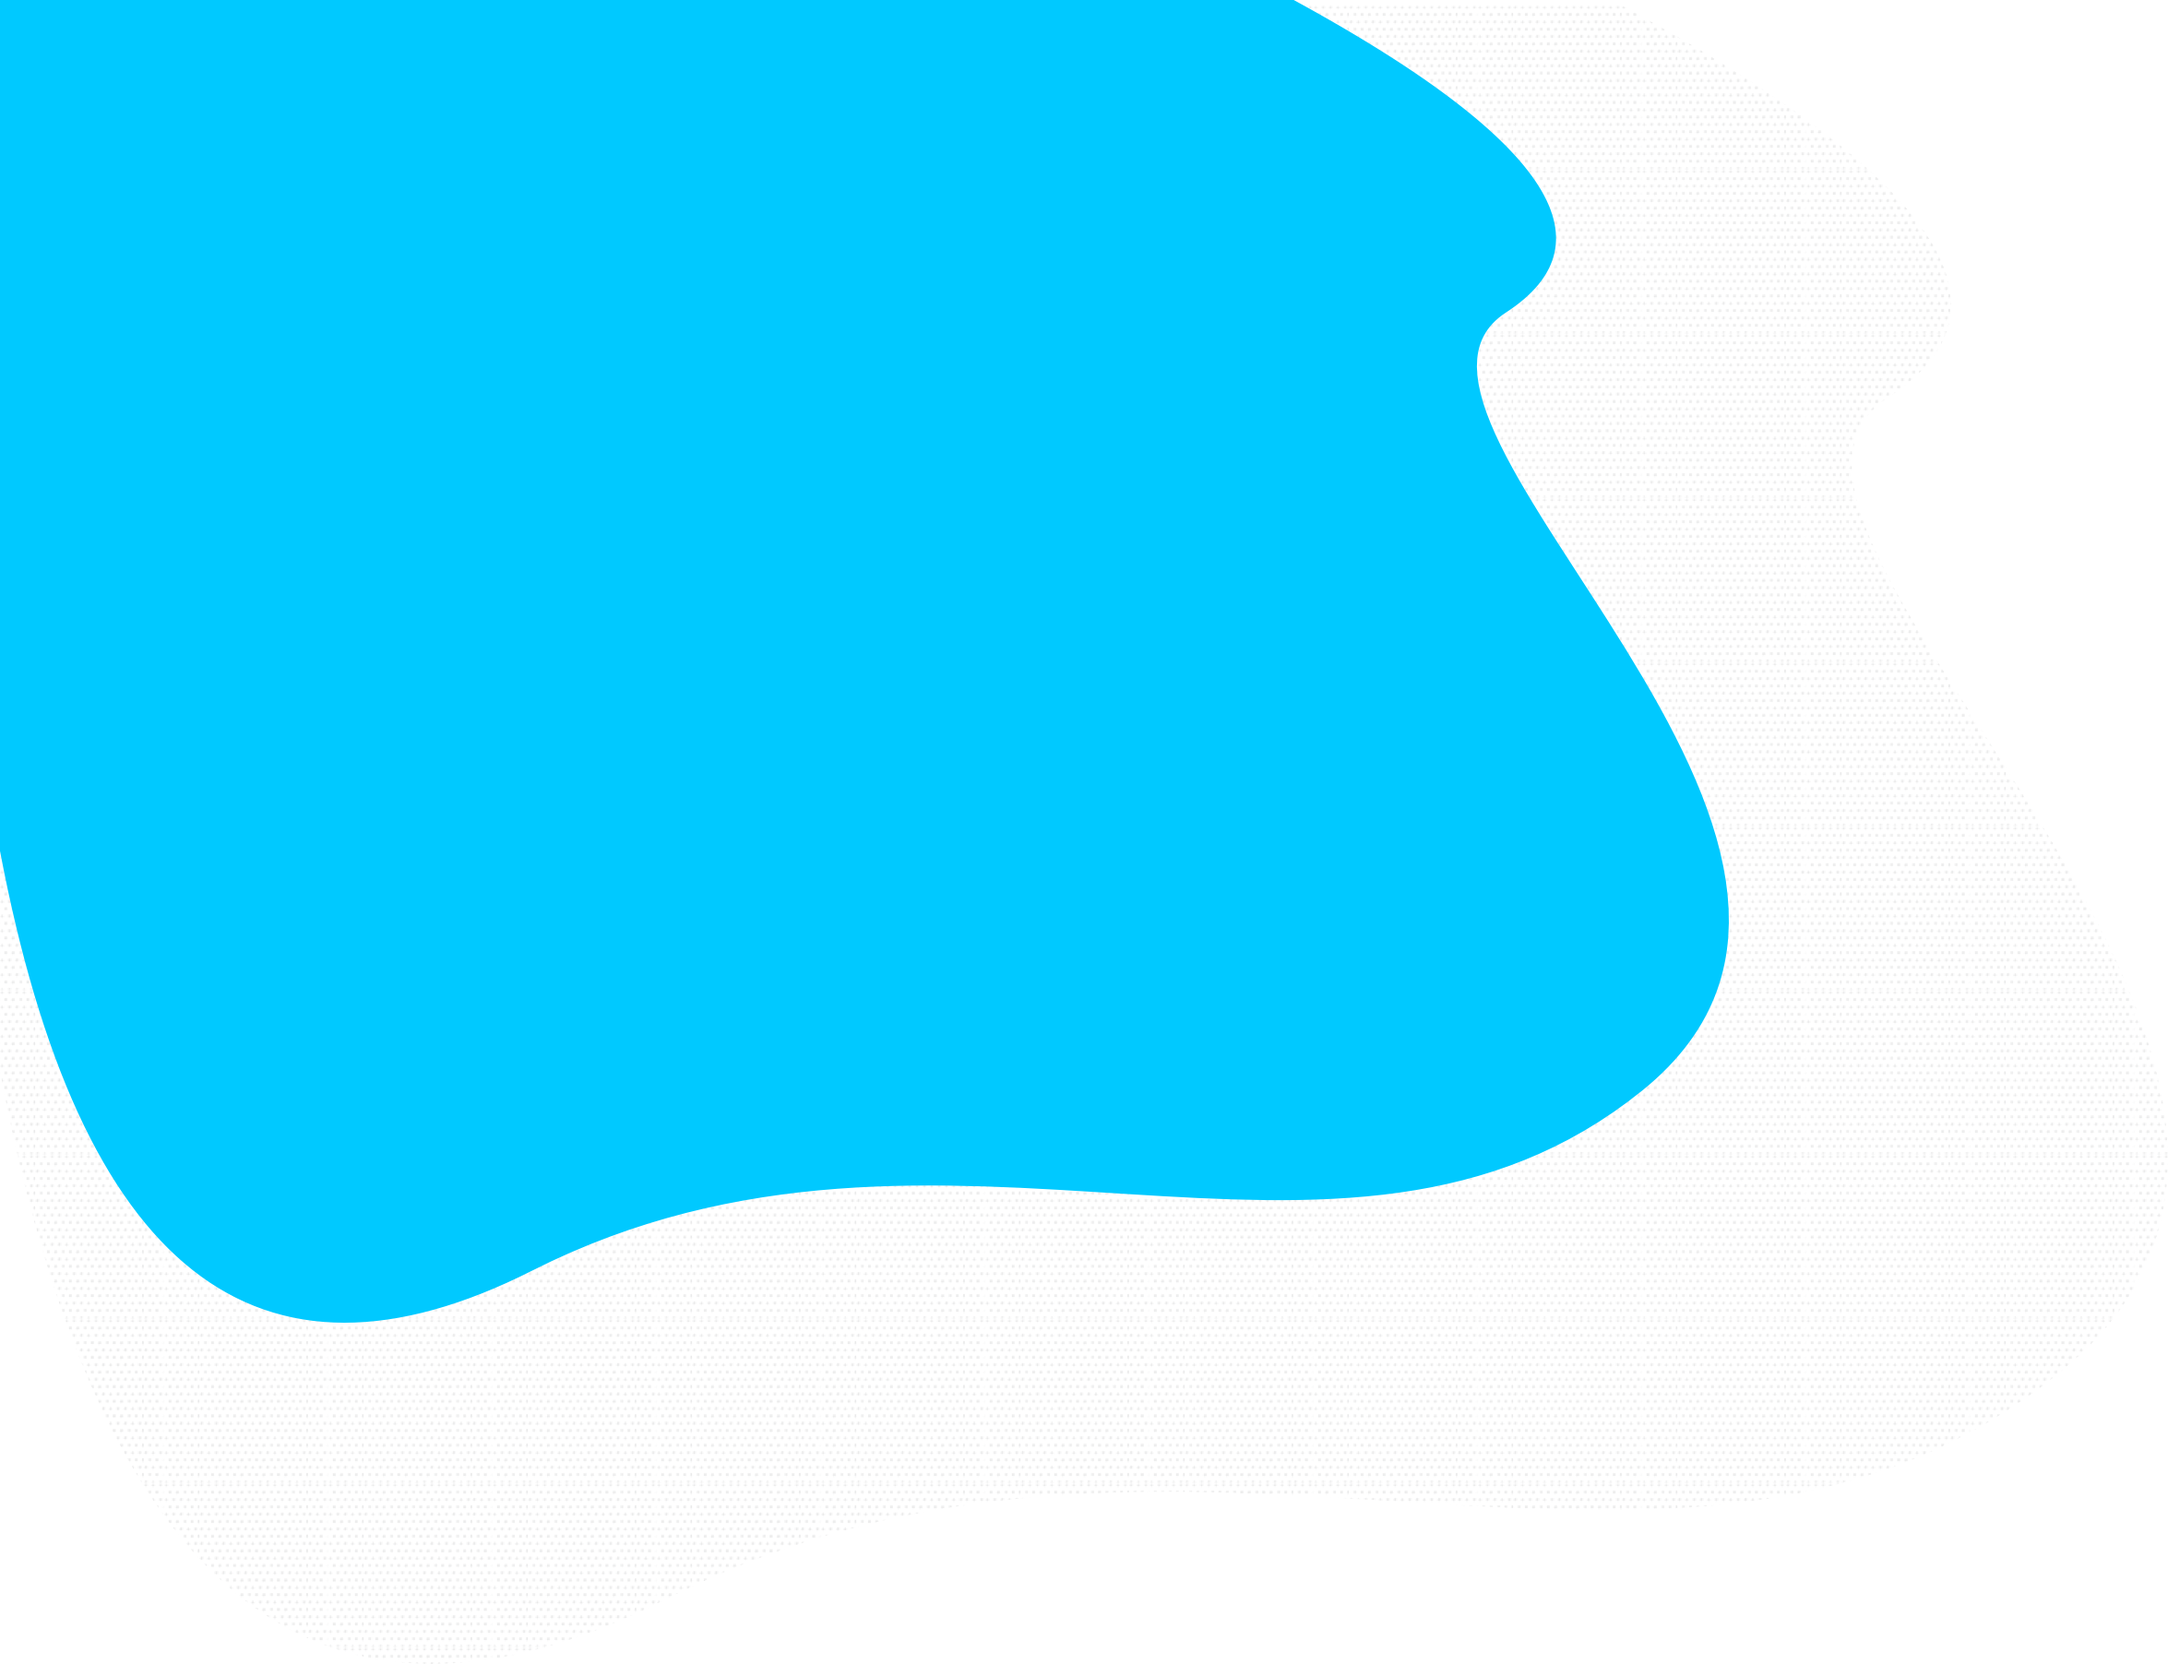
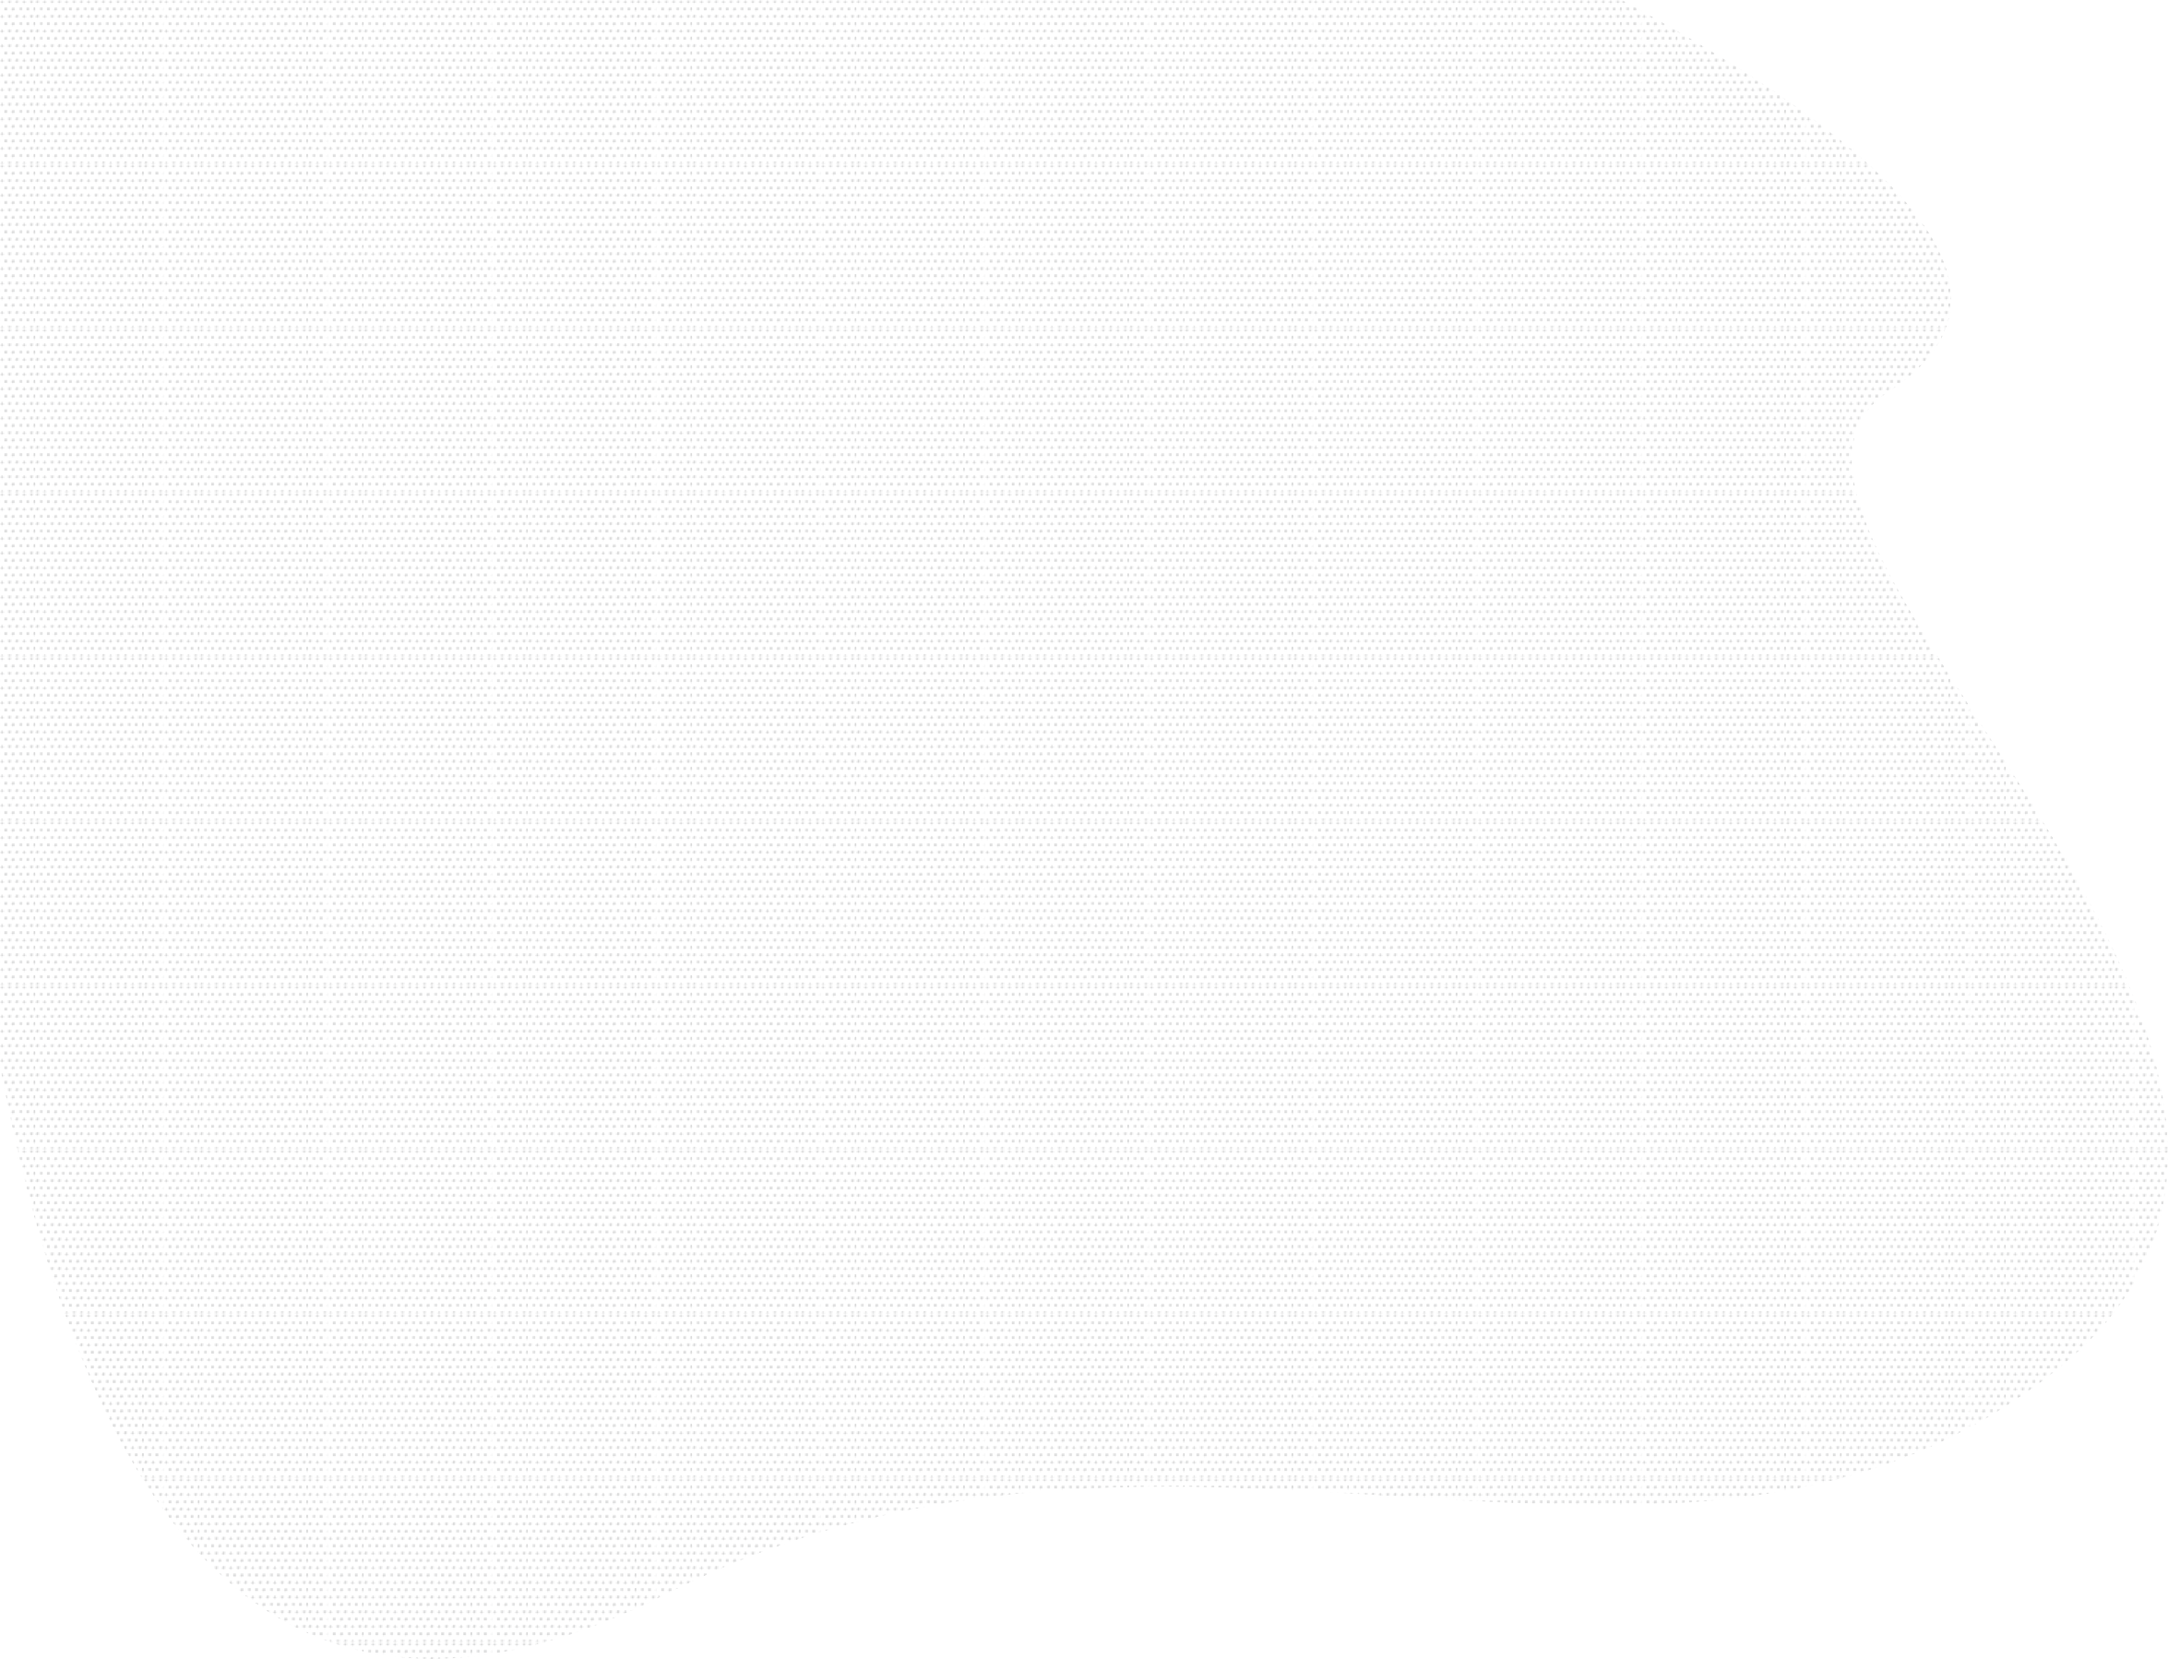
adding more things

diff --git a/public/_scss/_base.scss b/public/_scss/_base.scss
@@ -5,86 +5,86 @@ body {
   font-weight: 400;
   line-height: 1.45;
   text-rendering: optimizeLegibility;
-    -webkit-font-smoothing: antialiased;
+  -webkit-font-smoothing: antialiased;
 
   @include breakpoint(large) {
-    background: url('/assets/images/icon--blob.svg') top left/60% no-repeat;
+    background: url('/assets/images/icon--blob.svg') top left/70% no-repeat;
+  }
+}
+
+.container {
+  max-width: 75em;
+  padding: 0 1em 0;
+  margin: 0 auto;
+
+  &__xsmall {
+    max-width: 40em;
+    margin: 0 auto;
+    padding: 0 1em;
   }
 
-  .container {
+  &__small {
+    max-width: 52em !important;
+    padding: 0 1em 0;
+
+    @include breakpoint(medium) {
+      margin: 0 auto;
+    }
+  }
+
+  &__large {
+    max-width: 64em;
+    padding: 0 1em 0;
+    margin: 0 auto;
+
+    @include breakpoint(medium) {
+      padding: 0 1em;
+    }
+  }
+
+  &__xlarge {
     max-width: 75em;
     padding: 0 1em 0;
     margin: 0 auto;
 
-    &__xsmall {
-      max-width: 40em;
-      margin: 0 auto;
+    @include breakpoint(medium) {
       padding: 0 1em;
     }
 
-    &__small {
-      max-width: 52em !important;
-      padding: 0 1em 0;
-
-      @include breakpoint(medium) {
-        margin: 0 auto;
+    &-break {
+      @include breakpoint(xlarge) {
+        margin: 0;
       }
     }
+  }
 
-    &__large {
-      max-width: 64em;
-      padding: 0 1em 0;
-      margin: 0 auto;
+  &__full {
+    max-width: 100%;
+    padding: 0 1em 0;
 
-      @include breakpoint(medium) {
-        padding: 0 1em;
-      }
+    @include breakpoint(medium) {
+      padding: 0;
+    }
+  }
+
+  &__images {
+    @include breakpoint(medium) {
+      display: grid;
+      grid-template-columns: 50% 50%;
+      grid-gap: 1em;
+    }
+  }
+
+  &__image {
+    flex-direction: column;
+
+    @include breakpoint(medium) {
+      flex-direction: row;
     }
 
-    &__xlarge {
-      max-width: 75em;
-      padding: 0 1em 0;
-      margin: 0 auto;
-
-      @include breakpoint(medium) {
-        padding: 0 1em;
-      }
-
-      &-break {
-        @include breakpoint(xlarge) {
-          margin: 0;
-        }
-      }
-    }
-
-    &__full {
-      max-width: 100%;
-      padding: 0 1em 0;
-
-      @include breakpoint(medium) {
-        padding: 0;
-      }
-    }
-
-    &__images {
-      @include breakpoint(medium) {
-        display: grid;
-        grid-template-columns: 50% 50%;
-        grid-gap: 1em;
-      }
-    }
-
-    &__image {
-      flex-direction: column;
-
-      @include breakpoint(medium) {
-        flex-direction: row;
-      }
-
-      &--small {
-        max-width: 25em;
-        margin: auto;
-      }
+    &--small {
+      max-width: 25em;
+      margin: auto;
     }
   }
 }

diff --git a/public/_scss/_SiteHeaderHome.scss b/public/_scss/_SiteHeaderHome.scss
@@ -5,7 +5,7 @@
     display: grid;
     height: 50vh;
     align-content: center;
-    margin-top: 12em;
+    margin-top: 9em;
   }
 
   &__summary {
@@ -19,6 +19,7 @@
     h1 {
       font-size: 1.65em;
       font-weight: 700;
+      color: $color--darkest-gray;
 
       @include breakpoint(medium) {
         font-size: 1.5em;
@@ -31,18 +32,39 @@
         margin-bottom: 1.5rem;
       }
 
+      @include breakpoint(xlarge) {
+        font-size: 2.75em;
+      }
+
       a {
         font-weight: 700;
-        text-decoration: none;
+        color: $color--darkest-gray;
+        text-decoration: underline;
+
+        &:hover {
+          color: lighten($color--darkest-gray, 10%);
+          text-decoration: none;
+        }
       }
     }
 
     p {
       font-weight: 300;
       font-family: $sans-stack;
+      color: $color--darkest-gray;
       margin-top: 0;
       margin-bottom: 0;
       font-size: 1.25em;
+
+      a {
+        color: $color--darkest-gray;
+        text-decoration: underline;
+
+        &:hover {
+          color: lighten($color--darkest-gray, 10%);
+          text-decoration: none;
+        }
+      }
 
       @include breakpoint(medium) {
         max-width: 75vw;
@@ -50,6 +72,10 @@
 
       @include breakpoint(large) {
         grid-column: 1 / span 5;
+      }
+
+      @include breakpoint(xlarge) {
+        font-size: 1.5em;
       }
     }
   }
@@ -80,27 +106,27 @@
 
     @include breakpoint(large) {
       &.resume svg:hover {
-        fill: lighten($color--resume, 5%) !important;
+        fill: $color--resume !important;
       }
 
       &.twitter svg:hover {
-        fill: lighten($color--twitter, 5%) !important;
+        fill: $color--twitter !important;
       }
 
       &.github svg:hover {
-        fill: lighten($color--github, 5%) !important;
+        fill: $color--github !important;
       }
 
       &.dribbble svg:hover {
-        fill: lighten($color--dribbble, 5%) !important;
+        fill: $color--dribbble !important;
       }
 
       &.medium svg:hover {
-        fill: lighten($color--medium, 5%) !important;
+        fill: $color--medium !important;
       }
 
       &.linkedin svg:hover {
-        fill: lighten($color--linkedin, 5%) !important;
+        fill: $color--linkedin !important;
       }
 
       &.img:hover {

diff --git a/public/_scss/_Teaser.scss b/public/_scss/_Teaser.scss
@@ -9,13 +9,14 @@
     grid-template-columns: repeat(5, 1fr);
     grid-template-rows: repeat(4, 1fr);
     grid-gap: 0.5em;
+    margin-bottom: 12em;
   }
 
   &__wrap {
     display: grid;
     grid-template-columns: 1fr;
     min-height: 200px;
-    transition: $trans--long-out;
+    transition: $trans--short-out;
     border-radius: 3px;
     box-shadow: $resting-box;
 
@@ -32,12 +33,12 @@
       &:hover {
         filter: hue-rotate(-22.5deg);
         transform: scale(1.01);
-        transition: $trans--short-in;
+        transition: $trans--short-out;
         box-shadow: $active-box;
 
         .Teaser__content {
           display: grid;
-          transition: $trans--short-in;
+          transition: $trans--long-in;
         }
       }
     }
@@ -50,7 +51,7 @@
     background-color: rgba(255, 255, 255, 0.7);
     height: 100%;
     width: 100%;
-    transition: $trans--long-out;
+    transition: $trans--short-out;
 
     @include breakpoint(medium) {
       min-height: 132px;

diff --git a/_layouts/about.html b/_layouts/about.html
@@ -15,6 +15,8 @@
 
       <div class="AboutPage__square-2"></div>
 
+      <img class="AboutPage__hattie show--medium" src="https://ktportfolio-cdn.sirv.com/img/hattie.JPG" alt="These things are most important"/>
+
       <p class="AboutPage__summary-three">I bounced around for a few years and ended up working remotely for a web company on projects for Intel and Athlon Media Group. Those gave me a taste for iterative product design. I threw myself into learning as much as possible about Product and UX over the next few years moonlighting at startups, taking a full time position on a product team and helping people launch things they love.</p>
 
       <img class="AboutPage__summary-img show--large" src="https://ktportfolio-cdn.sirv.com/img/lots-of-stuff-big.png?profile=portfolio" alt="I do a lot of things - a collage of things I do"/>

diff --git a/public/_scss/_AboutPage.scss b/public/_scss/_AboutPage.scss
@@ -96,6 +96,21 @@
     }
   }
 
+  &__hattie {
+    @include breakpoint(medium) {
+      grid-row: 7 / span 2;
+      grid-column: 8 / span 2;
+      box-shadow: $resting-box;
+      margin: 0 0 -1em 0;
+    }
+
+    @include breakpoint(large) {
+      grid-row: 8 / span 2;
+      grid-column: 10 / span 2;
+      margin: -1em 0 0 0;
+    }
+  }
+
   &__summary-two {
 
     @include breakpoint(medium) {

diff --git a/_layouts/default.html b/_layouts/default.html
@@ -1,7 +1,7 @@
 {% include head.html %}
   {% include SiteHeaderHome.html %}
 
-  <section class="container__large">
+  <section class="container__xlarge">
     <div class="Teaser">
 
         {% for post in site.categories.case_study limit:6 %}

diff --git a/public/_scss/_helper.scss b/public/_scss/_helper.scss
@@ -202,7 +202,7 @@ $active-box: 0 7px 14px rgba(0, 0, 0, 0.1), 0 3px 6px rgba(0, 0, 0, 0.08);
 .icon {
   height: 28px;
   width: 28px;
-  fill: $color--light-gray;
+  fill: $color--darkest-gray !important;
 }
 
 .round {

diff --git a/_includes/SiteHeaderHome.html b/_includes/SiteHeaderHome.html
@@ -1,5 +1,5 @@
 
-<div class="container__large">
+<div class="container__xlarge">
   <header class="SiteHeaderHome fade-in">
 
     <div class="SiteHeaderHome__summary">

diff --git a/_includes/head.html b/_includes/head.html
@@ -94,5 +94,5 @@
   <link rel="stylesheet" href="https://use.typekit.net/myg3ghd.css">
 </head>
 
-<body class="clouds">
+<body>
   <main aria-label="Content">
